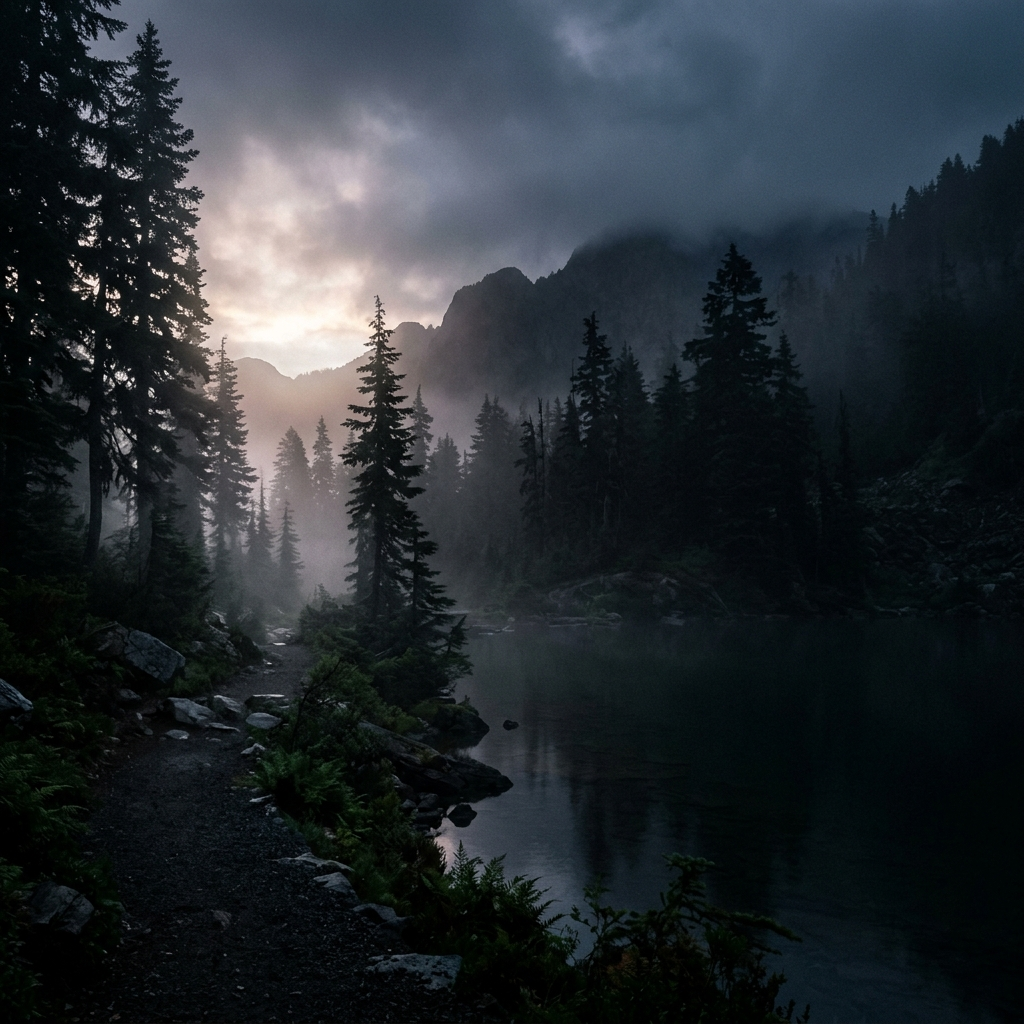
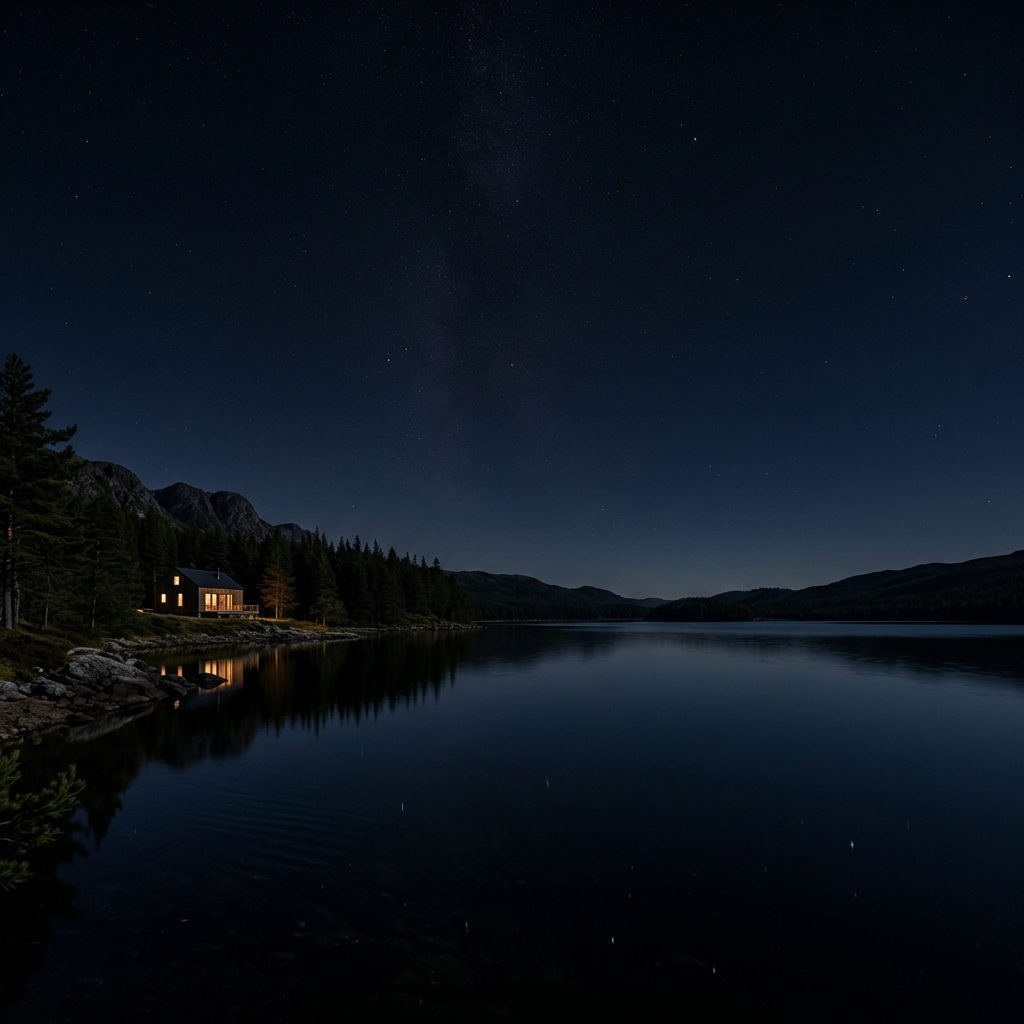
style(auth): add sliding pane animations and layout swaps for sign-up and login transitions

diff --git a/frontend/src/components/auth/AuthContainer.jsx b/frontend/src/components/auth/AuthContainer.jsx
@@ -1,4 +1,4 @@
-import React from 'react';
+import React, { useState, useEffect } from 'react';
 import logoWH from '../../assets/logo-WH.png';
 import loginBg from '../../assets/login-bg.png';
 import './auth.css';
@@ -8,10 +8,39 @@ export default function AuthContainer({
   onNavigate = () => {},
   children
 }) {
+  const isSignUp = activePage === 'register';
+
+  // State to hold the content that is currently visible, updated halfway through animation
+  const [displayState, setDisplayState] = useState({
+    page: activePage,
+    children: children,
+    isSignUpContent: isSignUp
+  });
+
+  useEffect(() => {
+    if (activePage !== displayState.page) {
+      // Trigger the content swap halfway through the 600ms animation (300ms)
+      const timer = setTimeout(() => {
+        setDisplayState({
+          page: activePage,
+          children: children,
+          isSignUpContent: activePage === 'register'
+        });
+      }, 300);
+      return () => clearTimeout(timer);
+    } else {
+      // Update immediately for normal re-renders (like typing in input fields)
+      setDisplayState(prev => ({
+        ...prev,
+        children: children
+      }));
+    }
+  }, [activePage, children, displayState.page]);
+
   return (
     <div className="auth-page-container dark">
       <div 
-        className="auth-split-window"
+        className={`auth-split-window ${isSignUp ? 'is-signup' : ''} ${displayState.isSignUpContent ? 'is-signup-content' : ''}`}
         style={{ 
           backgroundImage: `url(${loginBg})`, 
           backgroundSize: 'cover', 
@@ -40,7 +69,7 @@ export default function AuthContainer({
         <div className="auth-right-pane auth-card auth-fade-in">
           <div className="auth-right-content">
             {/* Page Content Container */}
-            {children}
+            {displayState.children}
           </div>
         </div>
       </div>

diff --git a/frontend/src/components/auth/auth.css b/frontend/src/components/auth/auth.css
@@ -24,12 +24,24 @@
 }
 
 .auth-left-pane {
-  flex: 1;
+  flex: 1 1 50%;
   display: flex;
   flex-direction: column;
   justify-content: space-between;
+  align-items: flex-start;
   padding: 60px;
   background: transparent;
+  transition: transform 0.6s cubic-bezier(0.65, 0, 0.35, 1);
+  z-index: 1;
+  box-sizing: border-box;
+}
+
+.auth-split-window.is-signup .auth-left-pane {
+  transform: translateX(100%);
+}
+
+.auth-split-window.is-signup-content .auth-left-pane {
+  align-items: flex-end;
 }
 
 .auth-left-logo {
@@ -42,6 +54,11 @@
   text-shadow: 0 2px 10px rgba(0, 0, 0, 0.5);
   max-width: 500px;
   text-align: left;
+  box-sizing: border-box;
+}
+
+.auth-split-window.is-signup-content .auth-left-text {
+  text-align: right;
 }
 
 .auth-left-text h1 {
@@ -59,10 +76,18 @@
 }
 
 .auth-right-pane {
-  flex: 1;
+  flex: 1 1 50%;
   border-radius: 0;
   border: none;
   border-left: 1px solid var(--border);
+  border-right: 1px solid var(--border);
+  transition: transform 0.6s cubic-bezier(0.65, 0, 0.35, 1), background 0.3s ease, border-color 0.3s ease, color 0.3s ease, box-shadow 0.3s ease !important;
+  z-index: 2;
+  box-sizing: border-box;
+}
+
+.auth-split-window.is-signup .auth-right-pane {
+  transform: translateX(-100%);
 }
 
 .auth-right-content {
